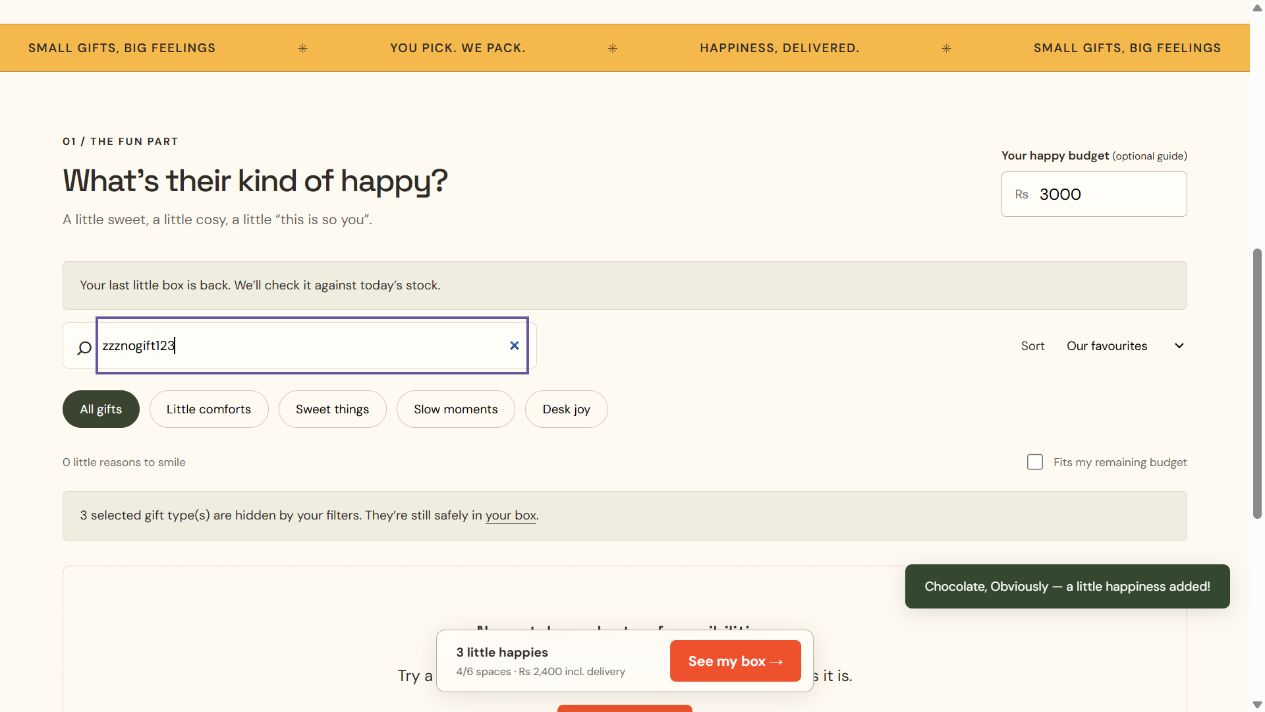
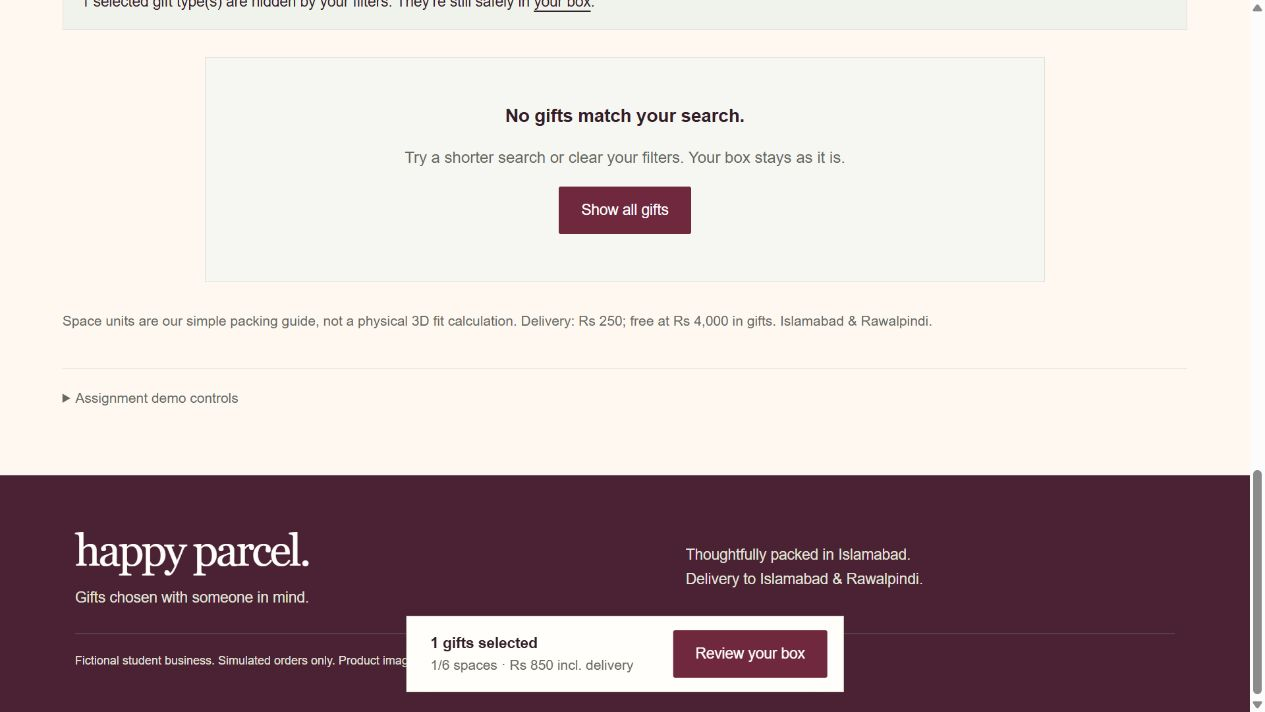
Refresh storefront screenshots and assignment evidence

diff --git a/docs/VERIFICATION.md b/docs/VERIFICATION.md
@@ -1,55 +1,15 @@
-# Verification record
+# What I checked
 
-15 November 2026. Browser: Chromium-based browser. Production browser and unrestricted public access checks are recorded separately in DEPLOYMENT.md. Initial preview exposed a JSX configuration error; automatic JSX transformation was configured and the server restarted before the tests below. Historical console entries from that failed initial preview are not evidence of errors in the corrected build.
+I took these screenshots from the live site on 22 November 2026.
 
-| Check | Actions and expected result | Observed result |
-|---|---|---|
-| Browse and shared selection | Add mug, socks, chocolate; all routes show 3 gifts | Passed; 4/6 spaces and Rs 2,400 including packaging/delivery |
-| Parameterized details and refresh | Open mug route and refresh | Passed; details and saved 3-gift box restored after mock loading |
-| Search improvement | Search zzznogift123; clear filters | Passed; explanation, hidden-selection count and recovery button; selections retained |
-| Capacity boundary | Increase mug to reach 6/6 | Passed; exact boundary accepted; extra mug disabled |
-| Keyboard packaging | Enter on Big Hug; Space on Lilac | Passed; size/wrap updated, 6/10 spaces and recalculated price |
-| Validation preservation | Name Noor, submit missing email/address | Passed; named errors, first invalid field focused, Noor and message retained |
-| Unsupported area | Select Lahore and submit otherwise valid form | Passed; area-specific feedback; no confirmation |
-| Completion | Correct to Islamabad with fictional details | Passed; demo receipt with 4 gifts, Rs 3,400 total |
-| Loading failure | Failure scenario then Try again | Passed; error and normal catalogue recovery; box retained |
-| Changed stock recovery | Make selected mug unavailable | Passed; exact conflict and disabled continuation; normal stock can be restored |
-| Scent compatibility | Add candle then enable scent-free | Passed; candle-specific conflict; disabling preference resolves it |
-| Mobile | 390 px viewport, browse/detail/box | Passed for tested screens; document width 375 px within 390 px viewport (scrollbar accounts for difference) |
-| Back navigation | Search tea, sort low, open tea, Back | Passed; search value tea restored |
-| Empty catalogue | Empty scenario then Reload shelf | Passed; distinct empty-dataset message and recovery |
-| Invalid ID | /gifts/not-a-gift | Passed; after mock loading, useful not-found feedback and a shelf link are shown |
+| Screen | What it shows |
+|---|---|
+| [Homepage](screenshots/app-desktop.jpg) | The final colours and gift-box photo |
+| [Collection](screenshots/app-collection.jpg) | Browsing the gift shelf |
+| [Your box](screenshots/app-box.jpg) | A saved gift and the packing preview |
+| [Box options and price](screenshots/app-box-options.jpg) | Three box sizes, finish choices, scent-free option and the itemised total |
+| [Empty search](screenshots/app-empty-search.jpg) | What happens when the gift search finds no matches |
 
-## Reference keyboard observation
+I checked that the saved Pocket Sunshine gift appeared in the box and that one gift, the Small box and delivery added up to Rs 850. I also checked the no-match search. The six automated rule tests and the production build passed.
 
-The inspected Original Creme label is a DIV (`build-box--item__button`); its `build-box--item` parent is also a DIV. Both lack role and tabindex. After Tab from this area, focus moved to a link and then FAQ, ABOUT, CAREERS, CONTACT, BLOG, THE FOX FLEET, ACCESSIBILITY and THE HOLIDAY SHOP. Package choices were not reached in that path. This records the observed sequence rather than claiming a full accessibility audit.
-
-## Automated tests
-
-`npm test` / `node --test`: **6 passed, 0 failed**. The exported capacity function is the one called by addReason and selectionIssues in the application. Valid, boundary and over-capacity cases are separate assertions; supplementary cases check invalid capacity inputs, the delivery threshold and restored compatibility/stock conflicts.
-
-## Final production-preview checks
-
-The corrected production build was opened in a fresh browser tab: 12 product cards loaded and console error/warning capture was empty. At 1280 px the document was 1265 px wide (the remainder is the scrollbar). Product details still loaded after direct-route refresh. Invalid product ID feedback was confirmed after loading completed. Vercel production deployment at https://happy-parcel.vercel.app was verified without login. The deployed product route refreshed correctly and a full demo order reached confirmation with an empty console error/warning capture.
-
-## Outstanding submission checks
-
-Public GitHub access is not connected. The project has genuine local incremental commits, but a public repository was not present at the beginning. Do not describe that requirement as complete. Public Vercel access, direct-route refresh, the final journey and the current console have now been checked. Student report includes these limits.
-
-
-## Product photo update
-
-All 12 catalogue products use locally served, generated photorealistic WebP images with useful alt text. The set is approximately 159 KB in total. Shelf images, the mug detail photo and the cart thumbnail loaded correctly. At 390 px the two-column photo grid had no page-wide horizontal overflow. A missing-photo check temporarily renamed only the built mug image: ProductPhoto rendered its accessible SVG fallback. The built asset was restored immediately after this test. The hero and interactive packing preview intentionally retain illustrations.
-
-
-## 20 November redesign verification
-
-- Node business-rule runner: 6 passed, 0 failed.
-- Vite production build: passed (54 modules). Dependency use-client directives are ignored by bundling; they are build notices, not observed browser errors.
-- Source checked for photographic hero/packing preview, readable mobile sizing, filter-preserving product return links and unavailable-city summary wording.
-- Fresh browser, keyboard, 390/1280 px layout, console and deployed nested-route checks: not verified in this revision. The browser automation runtime could not start. Historical results above must not be presented as a new visual audit.
-
-
-## Editorial storefront revision
-
-Reworked the hero, collection grid, navigation, service steps, product cards and supporting pages with larger photography and revised typography. Six rule tests and the production build passed. Fresh browser screenshots and mobile/keyboard checks remain pending.
+I kept the BOXFOX screenshots from my 15 November reference review. [My design notes](../DECISIONS.md) explain the decisions I made from that review.

diff --git a/docs/REQUIREMENTS_REVIEW.md b/docs/REQUIREMENTS_REVIEW.md
@@ -1,6 +1,6 @@
 # Assignment 02 review — 20 November 2026
 
-Source: Web Programming_A#02 (1).pdf, CS4032, Fall 2026. This is a review of implemented source and recorded checks, not a claim that every submission item is finished.
+I used this checklist to map my CS4032 assignment requirements to the app.
 
 ## Functional requirements
 
@@ -16,9 +16,9 @@ Source: Web Programming_A#02 (1).pdf, CS4032, Fall 2026. This is a review of imp
 | FR13 | Restore selection from local storage | Validated cart/preferences restore and stock revalidation. Implemented. |
 | FR14–FR15 | Async loading, failure/retry, distinct empty states | Mock loader plus documented demo controls and recovery. Implemented. |
 | FR16 | Clear final result | Explicit simulated order receipt. Implemented. |
-| FR17 | Responsive and keyboard-accessible journey | Responsive authored CSS, semantic controls and focus states. Previous release was browser-tested; redesigned release needs fresh 390/1280 px and console checks. |
+| FR17 | Responsive and keyboard-accessible journey | Responsive authored CSS, semantic controls and focus states. My current desktop screenshots are in the verification notes. |
 | FR18 | Three investigated problems addressed | Early packaging prices; recoverable no-match search; keyboard-operable packaging controls. Evidence and decisions retained. |
-| FR19 | Public deployment and nested-route refresh | Redesigned release deployed READY to https://happy-parcel.vercel.app on 20 November 2026; unauthenticated HTTP GET returned 200. SPA rewrite present; live nested-route/browser refresh still needs checking. |
+| FR19 | Public deployment and nested-route refresh | The public site is on Vercel. I opened the live home and box routes during the screenshot check. |
 
 ## Operating rules
 
@@ -26,27 +26,4 @@ Source: Web Programming_A#02 (1).pdf, CS4032, Fall 2026. This is a review of imp
 2. Compatibility: scent-free selection rejects added-fragrance candles/soap. Enabling the preference after selecting a conflicting gift preserves it, explains the conflict and prevents completion.
 3. Fulfilment/pricing: Islamabad and Rawalpindi only. Rs 250 delivery below Rs 4,000 merchandise; free at/above Rs 4,000. Packaging is excluded from the threshold. Unsupported city prevents completion; the total now asks for a supported city rather than showing a misleading numeric quote.
 
-## Changes made in this review
-
-- Replaced illustrated hero/stickers with product photography and a quieter retail layout.
-- Replaced illustrated packing objects with the same product photos used in the catalogue.
-- Simplified size/finish labels and customer-facing instructions.
-- Replaced undersized mobile text with readable labels and larger controls.
-- Preserved search/filter/sort URL when following the product details return link.
-- Kept stock, capacity, price and compatibility feedback visible.
-- Removed unused decorative stylesheet rules and external font dependency.
-
-## Verification
-
-Node business-rule tests: 6 passed, 0 failed. Valid, exact-boundary and over-limit capacity cases are separate tests; additional cases cover malformed input, delivery-area/fee boundaries and restored conflicts. Production Vite build passed. React Router's dependency-level use-client bundling notices do not prevent the build; current browser console remains unverified because the browser automation runtime was unavailable.
-
-Reference screenshots document the inspected BOXFOX interface on 15 November 2026. Earlier app screenshots in docs/screenshots are historical and must not be described as screenshots of this redesign.
-
-## Remaining submission gaps
-
-- Public GitHub repository/link is still missing. Real local commits exist; uploading now cannot satisfy the historical public-from-start requirement. Do not fabricate/backdate history.
-- The assignment requires a final PDF report, not only the website. Update its app screenshots/annotations and insert the real repository URL, deployed URL and final commit. Its sections must cover business profile, operating rules/boundaries, three reference problems, three decisions, implementation evidence, verification and limitations.
-- Recheck redesigned screens at 390 and 1280 px, keyboard-only navigation and the live browser console; refresh a nested product route after deployment.
-- Submit the public repository link, deployed link and a source ZIP named 24I2105_IrumFatima_A_A#02.zip. Exclude node_modules, dist and secrets; retain local data/assets, dependency lockfile, tests, README and DECISIONS.
-
-No payment backend or MongoDB is required by this assignment: the brief explicitly asks for a React frontend using local data and simulated completion.
+I recorded the current evidence in [my verification notes](VERIFICATION.md).

diff --git a/docs/DEPLOYMENT.md b/docs/DEPLOYMENT.md
@@ -1,22 +1,5 @@
-# Deployment handoff
+# Where the app is hosted
 
-The website is prepared as a Vite static React application. The hosting service must return `index.html` for unknown non-asset routes so BrowserRouter links such as `/gifts/sunny-mug` can refresh directly. Netlify uses the included `_redirects` file; Vercel can use `vercel.json`.
+I use [Vercel](https://happy-parcel.vercel.app/) for the live app and keep the source on [GitHub](https://github.com/mirza958/happy-parcel). The storefront shown in my screenshots comes from source commit [6b0946b](https://github.com/mirza958/happy-parcel/commit/6b0946b8429703866c5c04883fd44a99fcb996e8). Later documentation updates include the refreshed screenshots.
 
-Public Vercel website: https://happy-parcel.vercel.app
-
-Vercel production deployment succeeded under the owner's existing account. The production domain opens in a browser without Vercel login. Twelve gifts loaded, a direct product-page refresh worked, and a complete simulated checkout reached confirmation with no console warnings/errors. Vercel uses the explicit Vite build and SPA rewrite in vercel.json. A public GitHub repository still needs to be connected and pushed with the existing local history. The exact source commit is recorded in the final handoff.
-
-To push the preserved history after creating an empty GitHub repository:
-
-```sh
-git branch -M main
-git remote add origin YOUR_EMPTY_GITHUB_REPOSITORY_URL
-git push -u origin main
-```
-
-Use your own GitHub account. Never place a password/token in source code, README or a ZIP. Do not initialise the remote with a separate README before pushing this history.
-
-
-## 20 November 2026 redesign
-
-Production deployment reported READY and aliased to https://happy-parcel.vercel.app. An unauthenticated HTTP request returned 200. This verifies reachability, not a fresh visual, keyboard or nested-route browser test.
+Vite builds the app into `dist`. I use the rewrite in `vercel.json` so a direct visit to a React route such as `/box` opens the app.

diff --git a/docs/ASSETS.md b/docs/ASSETS.md
@@ -1,5 +1,5 @@
-# Product visuals
+# Images in Happy Parcel
 
-The twelve product images in `public/images/products/` are illustrative product images made for this fictional student business. They do not represent photographs of real stock and are not copied from BOXFOX. Their coordinated ivory backgrounds and studio lighting provide a consistent catalogue style. The twelve square images use WebP to keep downloads small.
+I use twelve locally stored WebP images for the catalogue. Their filenames match the product IDs. The packing preview uses the same catalogue images and the homepage uses a separate generated gift-box photo at `public/gift-box-hero.jpg`.
 
-Each image filename matches the product's stable ID. ProductPhoto supplies alternative text, lazy loading for catalogue thumbnails, eager loading for details, explicit dimensions, and an illustration fallback if an image fails. The hero and packing preview use the same local product photos as the catalogue.
+The fictional products use illustrative imagery. `ProductPhoto.jsx` gives the photos useful alt text and falls back to an illustration when an image is missing.

diff --git a/README.md b/README.md
@@ -41,4 +41,4 @@ I keep the box in React state so that the count, preview and total all use the s
 
 I add a gift, search for `zzznogift123`, then use **Show all gifts** to get back to the catalogue. The gift is still in my box. I also turn on scent-free packing after adding a candle to show how the box explains the conflict. The **Assignment demo controls** let me show a failed load, an empty catalogue and a stock change.
 
-Checkout is a simulation. I use made-up details in the demo. Email and street address aren't stored. The packing units are an estimate of capacity. The report covers my reference research and the decisions I made from it.
+Checkout is a simulation. I use made-up details in the demo. Email and street address aren't stored. The packing units are an estimate of capacity. My [design notes](DECISIONS.md) explain the changes I made after trying BOXFOX. I also included [screenshots from the live site](docs/VERIFICATION.md).

diff --git a/DECISIONS.md b/DECISIONS.md
@@ -14,4 +14,4 @@ Searching for `zzznogift123` in the reference left me with an empty shelf. I kep
 
 I couldn't reach the reference packaging choices by tabbing through that part of the page. I could have added keyboard handlers to custom cards, but regular buttons already respond to Enter and Space. I styled the buttons to show focus and used `aria-pressed` for the selected option. Each option adds a tab stop, which keeps the choices individually reachable. The buttons are in `src/pages/Box.jsx`.
 
-The screenshots in `docs/screenshots` show the reference I reviewed and an earlier version of my app.
+I kept the BOXFOX screenshots from my review and updated the [Happy Parcel screenshots](docs/VERIFICATION.md) from the live site.
